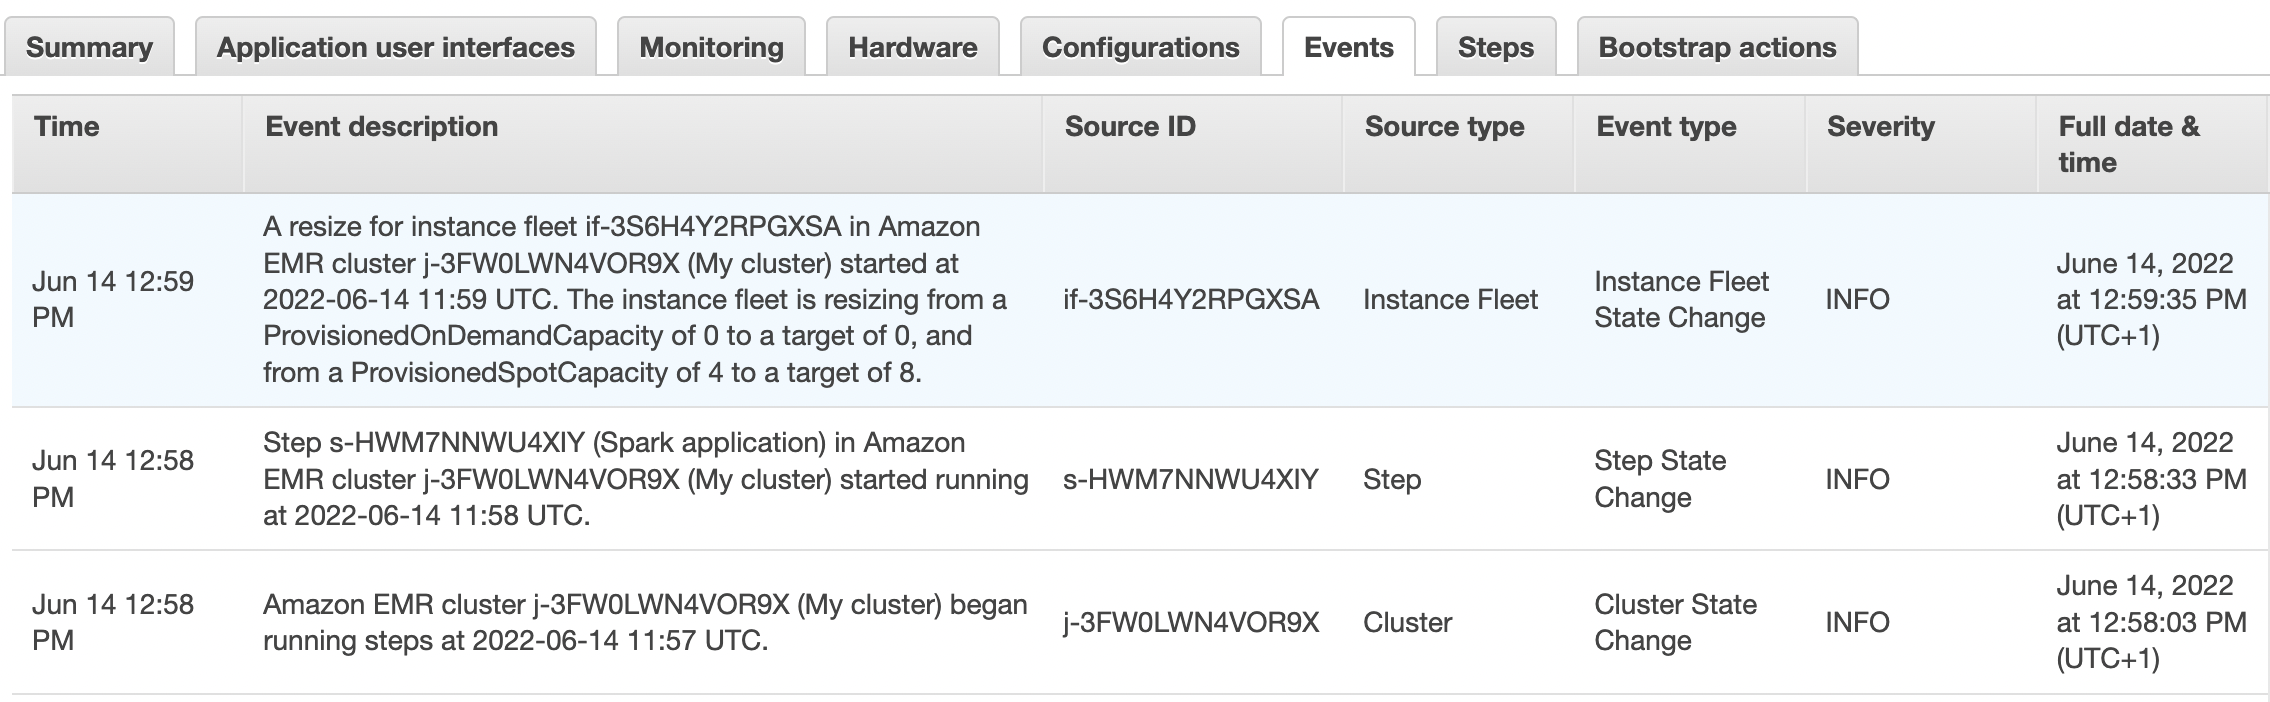
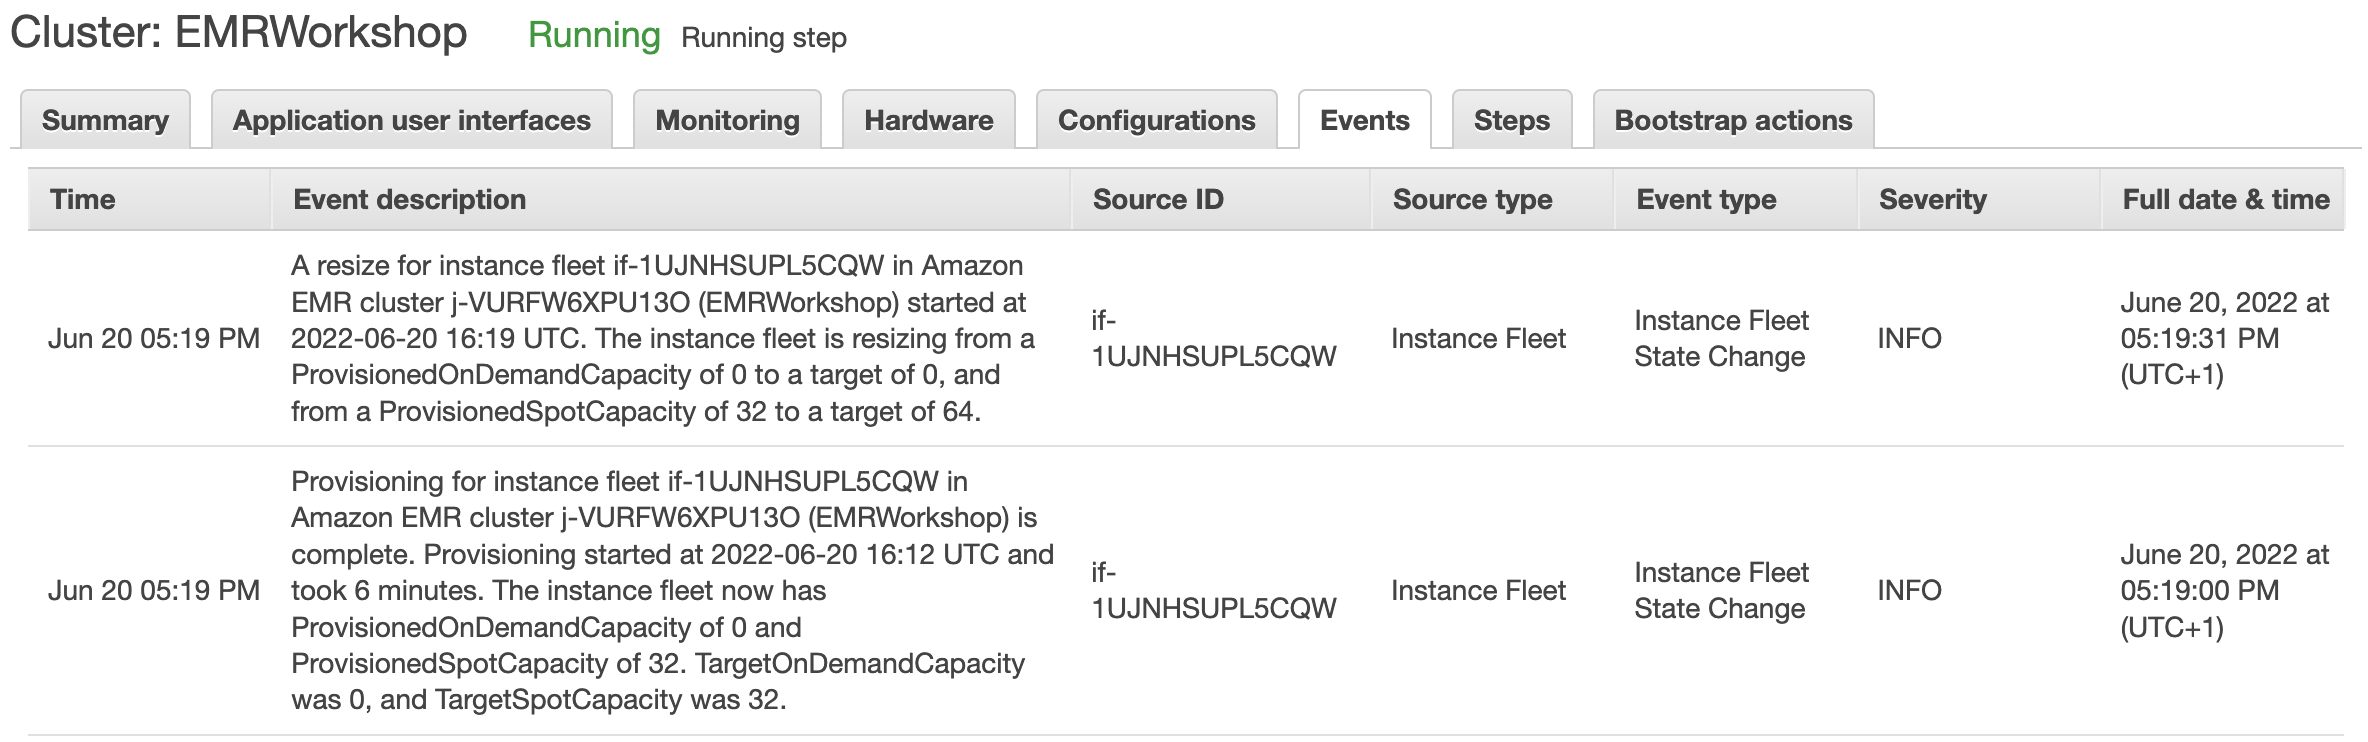
fix(*): appends scaling to cluster creation

diff --git a/content/running_spark_apps_with_emr_on_spot_instances/launching_emr_cluster-2.md b/content/running_spark_apps_with_emr_on_spot_instances/launching_emr_cluster-2.md
@@ -32,6 +32,26 @@ Since our executor size is 4 vCPUs, and each instance counts as the number of it
 
 ![FleetSelection3](/images/running-emr-spark-apps-on-spot/emrinstancefleets-task2.png)
 
+### Enabling cluster scaling
+
+While you can always manually adjust the number of core or task nodes (EC2 instances) in your Amazon EMR cluster, you can also use the power of EMR auto-scaling to automatically adjust the cluster size in response to changing workloads without any manual intervention.
+
+Let's enable scaling for this cluster using **[Amazon EMR Managed Scaling](https://aws.amazon.com/blogs/big-data/introducing-amazon-emr-managed-scaling-automatically-resize-clusters-to-lower-cost/)**. With EMR Managed scaling you specify the minimum and maximum compute limits for your cluster and Amazon EMR automatically resizes EMR clusters for best performance and resource utilization. EMR Managed Scaling constantly monitors key metrics based on workload and optimizes the cluster size for best resource utilization
+
+{{% notice note %}}
+EMR Managed Scaling is supported for Apache Spark, Apache Hive and YARN-based workloads on Amazon EMR versions 5.30.1 and above.
+{{% /notice %}}
+
+1. Select the checkbox for **Enable Cluster Scaling** in **Cluster scaling** section.
+1. Set **MinimumCapacityUnits** to **36**, which includes core node capacity units plus capacity units for 8 task executors.
+1. Set **MaximumCapacityUnits** to **68**, keeping same capacity units for core nodes but allowing scaling for task nodes.
+1. Set **MaximumOnDemandCapacityUnits** to **0**, use EC2 Spot instances only for both Code Nodes and Task Nodes.
+1. Set **MaximumCoreCapacityUnits** to **4**, keeping same capacity units for core nodes.
+![emrmanagedscaling](/images/running-emr-spark-apps-on-spot/emrmanagedscaling.png)
+
+{{% notice note %}}
+Managed Scaling now also has the capability to prevent scaling down instances that store intermediate shuffle data for Apache Spark. Intelligently scaling down clusters without removing the instances that store intermediate shuffle data prevents job re-attempts and re-computations, which leads to better performance, and lower cost.
+**[Click here](https://aws.amazon.com/about-aws/whats-new/2022/03/amazon-emr-managed-scaling-shuffle-data-aware/)** for more details.
+{{% /notice %}}
+
 click **Next** to continue to the next steps of launching your EMR cluster.
-
-

diff --git a/content/running_spark_apps_with_emr_on_spot_instances/selecting_instance_types.md b/content/running_spark_apps_with_emr_on_spot_instances/selecting_instance_types.md
@@ -31,7 +31,7 @@ For the purpose of this workshop we will select instances based on below criteri
  * Instances which have vCPU to Memory ratio of 1:8, same as R Instance family  
  * Instances with CPU Architecture x86_64 and no GPU Instances  
  * Instances that belong to current generation  
- * Instances types that are not supported by EMR such as R5N, R5ad and R5b. Enhanced z, I and D Instance families, which are priced higher than R family. So basically, adding a deny list with the regular expression `.*n.*|.*ad.*|.*b.*|^[zid].*`.
+ * Instances types that are not supported by EMR such as R5N, R5ad and R5b. Enhanced z, I and D Instance families, which are priced higher than R family. So basically, adding a deny list with the regular expression `.*n.*|.*ad.*|.*b.*|^[zid].*`. You can find the list of supported instance types [here](https://docs.aws.amazon.com/emr/latest/ManagementGuide/emr-supported-instance-types.html).
 
 {{% notice info %}}
 **[Click here](https://docs.aws.amazon.com/emr/latest/ManagementGuide/emr-supported-instance-types.html)** to find out the instance types that Amazon EMR supports .
@@ -58,10 +58,7 @@ r5a.4xlarge
 r5a.xlarge
 r5d.2xlarge
 r5d.4xlarge
-r5d.xlarge
-r6i.2xlarge
-r6i.4xlarge
-r6i.xlarge         
+r5d.xlarge       
 ```
 
 {{% notice note %}}

diff --git a/content/running_spark_apps_with_emr_on_spot_instances/examining_cluster.md b/content/running_spark_apps_with_emr_on_spot_instances/examining_cluster.md
@@ -96,3 +96,11 @@ The Core Instance Fleet launched one xlarge instance, able to run one executor.
 {{%expand "Question: Did you see more than 9 containers in CloudWatch Metrics and in YARN ResourceManager? if so, do you know why? Click to expand the answer" %}}
 Your Spark application was configured to run in Cluster mode, meaning that the **Spark driver is running on the Core node**. Since it is counted as a container, this adds a container to our count, but it is not an executor.
 {{% /expand%}}
+
+#### Managed Scaling in Action
+
+1. In your EMR cluster page, in the AWS Management Console, go to the **Steps** tab.
+1. Go to the **Events** tab to see the scaling events.
+![scalingEvent](/images/running-emr-spark-apps-on-spot/emrsparkscalingevent.png)
+
+EMR Managed Scaling constantly monitors [key metrics](https://docs.aws.amazon.com/emr/latest/ManagementGuide/managed-scaling-metrics.html) and automatically increases or decreases the number of instances or units in your cluster based on workload.

diff --git a/content/karpenter/040_karpenter/install_karpenter.md b/content/karpenter/040_karpenter/install_karpenter.md
@@ -57,5 +57,3 @@ kubectl get deployment -n karpenter
 {{% notice note %}}
 You can increase the number of Karpenter replicas in the deployment for resilience. Karpenter will elect a leader controller that in charge of running operations.
 {{% /notice %}}
-
-
